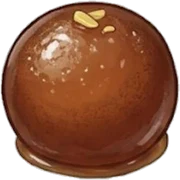
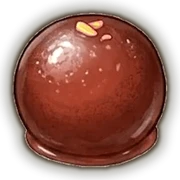
Aangan: brighter festive Mithai board, distinct sweets, fairer 3-star targets
Claude-Session: https://claude.ai/code/session_01RFA7oXpjA3EFXSJvktnnmR

diff --git a/games/aangan/index.html b/games/aangan/index.html
@@ -1,8 +1,8 @@
 <!DOCTYPE html>
 <html lang="en">
 <head>
-<meta charset="utf-8">
 <meta name="robots" content="noindex">
+<meta charset="utf-8">
 <meta name="viewport" content="width=device-width,initial-scale=1,maximum-scale=1,user-scalable=no">
 <title>Aangan — Home Stories · World of Wonders Studio</title>
 <meta name="description" content="Come home to Ajji's old house. Play carrom on the verandah, make crisp dosas, and bring the courtyard back to life.">
@@ -904,7 +904,8 @@ const Mango=(()=>{const cv=$('mv'),g=cv.getContext('2d');let W,H,lv,lvIdx,raf,la
 GAMES.mango=Mango;
 /* ===================== MITHAI MATCH (endless match-3 core) ===================== */
 const Mithai=(()=>{const cv=$('xv'),g=cv.getContext('2d');let W,H,N=8,M=8,cell,ox,oy,grid,mask,pots,types,lvN,moves,goals,state,anim=[],sel=null,drag=null,idleT=0,hintMv=null,raf,lastT,bg=null,combo=0,score=0;
- const THEMES=[{n:'Deepavali',a:'#3b1f5e',b:'#d97706',g:['#f59e0b','#fde047'],p:'#ffd36b'},{n:'Holi',a:'#7c1d5c',b:'#f472b6',g:['#ec4899','#a3e635'],p:'#f9a8d4'},{n:'Sankranti',a:'#0e4a7a',b:'#f59e0b',g:['#fb923c','#38bdf8'],p:'#fde68a'},{n:'Onam',a:'#14532d',b:'#facc15',g:['#facc15','#f97316'],p:'#bef264'},{n:'Dasara',a:'#7f1d1d',b:'#eab308',g:['#dc2626','#fbbf24'],p:'#fcd34d'},{n:'Ugadi',a:'#065f46',b:'#84cc16',g:['#65a30d','#fde047'],p:'#d9f99d'},{n:'Ganesha',a:'#9a3412',b:'#fbbf24',g:['#f97316','#ef4444'],p:'#fed7aa'}];
+ function mixC(a,b,t){const p=h=>[1,3,5].map(i=>parseInt(h.substr(i,2),16));const A=p(a),B=p(b);return'rgb('+A.map((v,i)=>Math.round(v+(B[i]-v)*t)).join(',')+')'}
+ const THEMES=[{n:'Deepavali',c1:'#6d28d9',c2:'#7c3aed',a:'#3b1f5e',b:'#d97706',g:['#f59e0b','#fde047'],p:'#ffd36b'},{n:'Holi',c1:'#0e7490',c2:'#0891b2',a:'#7c1d5c',b:'#f472b6',g:['#ec4899','#a3e635'],p:'#f9a8d4'},{n:'Sankranti',c1:'#1d4ed8',c2:'#2563eb',a:'#0e4a7a',b:'#f59e0b',g:['#fb923c','#38bdf8'],p:'#fde68a'},{n:'Onam',c1:'#1e3a8a',c2:'#1e40af',a:'#14532d',b:'#facc15',g:['#facc15','#f97316'],p:'#bef264'},{n:'Dasara',c1:'#115e59',c2:'#0f766e',a:'#7f1d1d',b:'#eab308',g:['#dc2626','#fbbf24'],p:'#fcd34d'},{n:'Ugadi',c1:'#3730a3',c2:'#4338ca',a:'#065f46',b:'#84cc16',g:['#65a30d','#fde047'],p:'#d9f99d'},{n:'Ganesha',c1:'#7e22ce',c2:'#9333ea',a:'#9a3412',b:'#fbbf24',g:['#f97316','#ef4444'],p:'#fed7aa'}];
  let theme=THEMES[0],tgt=[1,2,3],parts=[],started=false;
  const SW=['s_laddoo','s_jalebi','s_barfi','s_jamun','s_peda','s_katli'];const SP={rocketH:'x_rocket',rocketV:'x_rocket',bomb:'x_anaar',rainbow:'x_kalash'};
  const im={};[...SW,'x_rocket','x_anaar','x_kalash','x_pot'].forEach(k=>{const i=new Image();i.src='assets/'+k+'.webp';im[k]=i});
@@ -915,7 +916,7 @@ const Mithai=(()=>{const cv=$('xv'),g=cv.getContext('2d');let W,H,N=8,M=8,cell,o
  function size(){[W,H]=canvasSize(cv,g);const land=W>H;const top=land?70:110,bot=land?20:30;const avail=Math.min(land?W*.6:W*.96,H-top-bot);cell=Math.floor(avail/8);ox=(W-cell*8)/2+(land?W*.08:0);oy=top+((H-top-bot)-cell*8)/2}
  addEventListener('resize',()=>{if($('mithai').classList.contains('on'))size()});
  const bgi={};
- function start(n){lvN=n;const L=levelDef(n);if(!L){comingSoon();return}types=L.types;moves=L.moves;goals=L.goals.map(x=>({...x,got:0}));state='intro';theme=THEMES[n%THEMES.length];score=0;const tot=goals.reduce((a,g)=>a+g.need,0);const m=Math.max(moves*45,tot*40);tgt=[m*.9,m*1.8,m*2.6].map(v=>Math.round(v/50)*50);parts=[];anim=[];sel=null;combo=0;
+ function start(n){lvN=n;const L=levelDef(n);if(!L){comingSoon();return}types=L.types;moves=L.moves;goals=L.goals.map(x=>({...x,got:0}));state='intro';theme=THEMES[n%THEMES.length];score=0;const tot=goals.reduce((a,g)=>a+g.need,0);const ez=n<10?.8:n<25?.9:1;tgt=[moves*25,moves*50*ez,moves*75*ez].map(v=>Math.round(v/50)*50);parts=[];anim=[];sel=null;combo=0;
   mask=[];grid=[];pots=[];for(let y=0;y<M;y++){mask.push([]);grid.push([]);pots.push([]);for(let x=0;x<N;x++){mask[y].push(L.mask?L.mask[y][x]:true);grid[y].push(null);pots[y].push(0)}}
   L.pots.forEach(([x,y,hp])=>{if(mask[y]&&mask[y][x])pots[y][x]=hp});
   for(let y=0;y<M;y++)for(let x=0;x<N;x++)if(mask[y][x]&&!pots[y][x]){let t;do{t=Math.random()*types|0}while((x>1&&grid[y][x-1]&&grid[y][x-2]&&grid[y][x-1].t===t&&grid[y][x-2].t===t)||(y>1&&grid[y-1][x]&&grid[y-2][x]&&grid[y-1][x].t===t&&grid[y-2][x].t===t));grid[y][x]={t,sp:null,dy:0,sc:1}}
@@ -984,7 +985,7 @@ const Mithai=(()=>{const cv=$('xv'),g=cv.getContext('2d');let W,H,N=8,M=8,cell,o
   let k=0;const bonus=()=>{if(moves>0){moves--;score+=60;const x=Math.random()*N|0,y=Math.random()*M|0;if(inB(x,y)){burst(x,y,1);A.pluck(784+k*40,.05)}k++;hud();setTimeout(bonus,110)}else{const stars=score>=tgt[2]?3:score>=tgt[1]?2:1;A.win(stars);const r=cv.getBoundingClientRect();sparkle(r.left+W/2,r.top+H/2,90);setTimeout(()=>finishM(lvN,stars,true,score),800)}};if(moves>0)toastM(t('bonusMoves'));setTimeout(bonus,600)}
  function burst(x,y,big){const cx=ox+(x+.5)*cell,cy=oy+(y+.5)*cell;for(let i=0;i<(big?14:6);i++){const a=Math.random()*6.283,s=1+Math.random()*(big?5:3);parts.push({x:cx,y:cy,vx:Math.cos(a)*s,vy:Math.sin(a)*s-1,l:1,c:i%2?theme.p:theme.g[i%2],r:2+Math.random()*3})}}
  function lose(){state='end';setTimeout(()=>finishM(lvN,0,false),500)}
- function drawTile(c,x,y,scale=1,alpha=1){const k=c.sp?SP[c.sp]:SW[c.t];const img=im[k];const s=cell*.84*scale*(c.sc||1);const cx=ox+(x+.5)*cell,cy=oy+(y+.5)*cell+(c.dy||0);g.globalAlpha=alpha;
+ function drawTile(c,x,y,scale=1,alpha=1){const k=c.sp?SP[c.sp]:SW[c.t];const img=im[k];const s=cell*.92*scale*(c.sc||1);const cx=ox+(x+.5)*cell,cy=oy+(y+.5)*cell+(c.dy||0);g.globalAlpha=alpha;
   if(ok(img)){g.save();g.translate(cx,cy);if(c.sp==='rocketH')g.rotate(Math.PI/2);if(c.sp==='rainbow')g.rotate(performance.now()/900);g.drawImage(img,-s/2,-s/2,s,s);g.restore()}else{g.fillStyle=c.sp?'#fff':FALLBACK[c.t];g.beginPath();g.arc(cx,cy,s*.42,0,6.283);g.fill()}
   if(c.sp&&c.sp!=='rainbow'&&ok(im[SW[c.t]])){const s2=s*.45;g.drawImage(im[SW[c.t]],cx+s*.12,cy+s*.12,s2,s2)}g.globalAlpha=1}
  function drawBack(now,dt){g.clearRect(0,0,W,H);const gr=g.createLinearGradient(0,0,W,H);gr.addColorStop(0,theme.a);gr.addColorStop(1,theme.b);g.fillStyle=gr;g.fillRect(0,0,W,H);
@@ -994,7 +995,7 @@ const Mithai=(()=>{const cv=$('xv'),g=cv.getContext('2d');let W,H,N=8,M=8,cell,o
   if(!drawBack.f||drawBack.th!==theme){drawBack.th=theme;drawBack.f=[...Array(26)].map(()=>({x:Math.random()*W,y:Math.random()*H,s:3+Math.random()*7,v:8+Math.random()*18,ph:Math.random()*6,k:Math.random()<.35}))}
   drawBack.f.forEach(f=>{f.y-=f.v*dt;f.ph+=dt;if(f.y<-20){f.y=H+20;f.x=Math.random()*W}const x=f.x+Math.sin(f.ph)*14;if(f.k){const gl=g.createRadialGradient(x,f.y,0,x,f.y,f.s*3);gl.addColorStop(0,'rgba(255,220,120,.9)');gl.addColorStop(.3,'rgba(255,170,60,.35)');gl.addColorStop(1,'rgba(255,170,60,0)');g.fillStyle=gl;g.beginPath();g.arc(x,f.y,f.s*3,0,6.283);g.fill()}else{g.fillStyle=theme.p;g.globalAlpha=.55;g.beginPath();g.ellipse(x,f.y,f.s,f.s*.5,f.ph,0,6.283);g.fill();g.globalAlpha=1}})}
  function drawBoardFrame(now){const bw=cell*N,bh=cell*M,p=14;g.save();g.shadowColor='rgba(0,0,0,.55)';g.shadowBlur=30;g.shadowOffsetY=10;const fg=g.createLinearGradient(ox,oy-p,ox,oy+bh+p);fg.addColorStop(0,'#f6d27a');fg.addColorStop(.5,'#b7791f');fg.addColorStop(1,'#f6d27a');g.fillStyle=fg;g.beginPath();g.roundRect(ox-p,oy-p,bw+2*p,bh+2*p,22);g.fill();g.restore();
-  g.fillStyle='rgba(40,16,6,.82)';g.beginPath();g.roundRect(ox-5,oy-5,bw+10,bh+10,16);g.fill();
+  g.fillStyle=mixC(theme.c1,'#000000',.45);g.beginPath();g.roundRect(ox-5,oy-5,bw+10,bh+10,16);g.fill();
   // kolam dots on frame
   g.fillStyle='#fff7e0';for(let i=0;i<=N*2;i++){const x=ox-p/2+i*(bw+p)/(N*2);g.beginPath();g.arc(x,oy-p/2-1,1.8,0,6.283);g.arc(x,oy+bh+p/2+1,1.8,0,6.283);g.fill()}
   // marigold garland toran
@@ -1003,7 +1004,7 @@ const Mithai=(()=>{const cv=$('xv'),g=cv.getContext('2d');let W,H,N=8,M=8,cell,o
   [[ox-p,oy+bh+p],[ox+bw+p,oy+bh+p]].forEach(([x,y])=>{const fl=1+Math.sin(now/120+x)*.15;g.fillStyle='#8b4513';g.beginPath();g.ellipse(x,y,cell*.28,cell*.12,0,0,Math.PI);g.fill();const gl=g.createRadialGradient(x,y-cell*.2,0,x,y-cell*.2,cell*.6);gl.addColorStop(0,'rgba(255,220,120,.9)');gl.addColorStop(1,'rgba(255,170,60,0)');g.fillStyle=gl;g.beginPath();g.arc(x,y-cell*.2,cell*.6,0,6.283);g.fill();g.fillStyle='#ffcc33';g.beginPath();g.ellipse(x,y-cell*.18*fl,cell*.06,cell*.14*fl,0,0,6.283);g.fill()})}
  function loop(now){now=now||performance.now();const dt=Math.min(.05,(now-lastT)/1000);lastT=now;
   drawBack(now,dt);drawBoardFrame(now);
-  for(let y=0;y<M;y++)for(let x=0;x<N;x++){if(!mask[y][x])continue;g.fillStyle=(x+y)%2?'rgba(255,240,215,.20)':'rgba(255,240,215,.30)';g.beginPath();g.roundRect(ox+x*cell+2,oy+y*cell+2,cell-4,cell-4,8);g.fill()}
+  for(let y=0;y<M;y++)for(let x=0;x<N;x++){if(!mask[y][x])continue;const X0=ox+x*cell+2,Y0=oy+y*cell+2,cs=cell-4;const cg=g.createLinearGradient(X0,Y0,X0,Y0+cs);const c1=(x+y)%2?theme.c1:theme.c2;cg.addColorStop(0,mixC(c1,'#ffffff',.22));cg.addColorStop(1,c1);g.fillStyle=cg;g.beginPath();g.roundRect(X0,Y0,cs,cs,9);g.fill();g.strokeStyle='rgba(255,215,120,.55)';g.lineWidth=1.5;g.stroke();g.fillStyle='rgba(255,255,255,.10)';g.beginPath();g.roundRect(X0+3,Y0+3,cs-6,cs*.32,7);g.fill()}
   if(sel){g.strokeStyle='#ffd36b';g.lineWidth=3;g.beginPath();g.roundRect(ox+sel[0]*cell+2,oy+sel[1]*cell+2,cell-4,cell-4,8);g.stroke()}
   // pots
   for(let y=0;y<M;y++)for(let x=0;x<N;x++)if(pots[y][x]){const s=cell*.9;if(ok(im.x_pot))g.drawImage(im.x_pot,ox+x*cell+(cell-s)/2,oy+y*cell+(cell-s)/2,s,s);else{g.fillStyle='#a0522d';g.fillRect(ox+x*cell+6,oy+y*cell+6,cell-12,cell-12)}if(pots[y][x]>1){g.fillStyle='#fff';g.font=`900 ${cell*.3}px Nunito`;g.textAlign='center';g.fillText('×2',ox+(x+.78)*cell,oy+(y+.32)*cell)}}
@@ -1021,7 +1022,7 @@ const Mithai=(()=>{const cv=$('xv'),g=cv.getContext('2d');let W,H,N=8,M=8,cell,o
  $('xBack').onclick=()=>{stop();goHome()};
  function comingSoon(){goHome();modal(`<h2>🍬 ${t('allLevels')}</h2><p>${t('newMonthly')}</p>`,[[t('home'),'g']])}
  function more(n){moves+=n;state='play';hud()}
- return{start,stop,more,levels:{length:Infinity},dbg:()=>({grid,mask,pots,goals,moves,findMove,trySwap,ox,oy,cell})}})();
+ return{start,stop,more,levels:{length:Infinity},dbg:()=>({grid,mask,pots,goals,moves,findMove,trySwap,ox,oy,cell,score,tgt,state})}})();
 GAMES.mithai=Mithai;
 function finishM(n,stars,ok,sc){let gained=ok?stars:0;const bonus=[];
  if(ok){if(S.bless!==today()){S.bless=today();gained+=2;bonus.push(t('blessGot'))}S.mithai=Math.max(S.mithai,n+1)}
